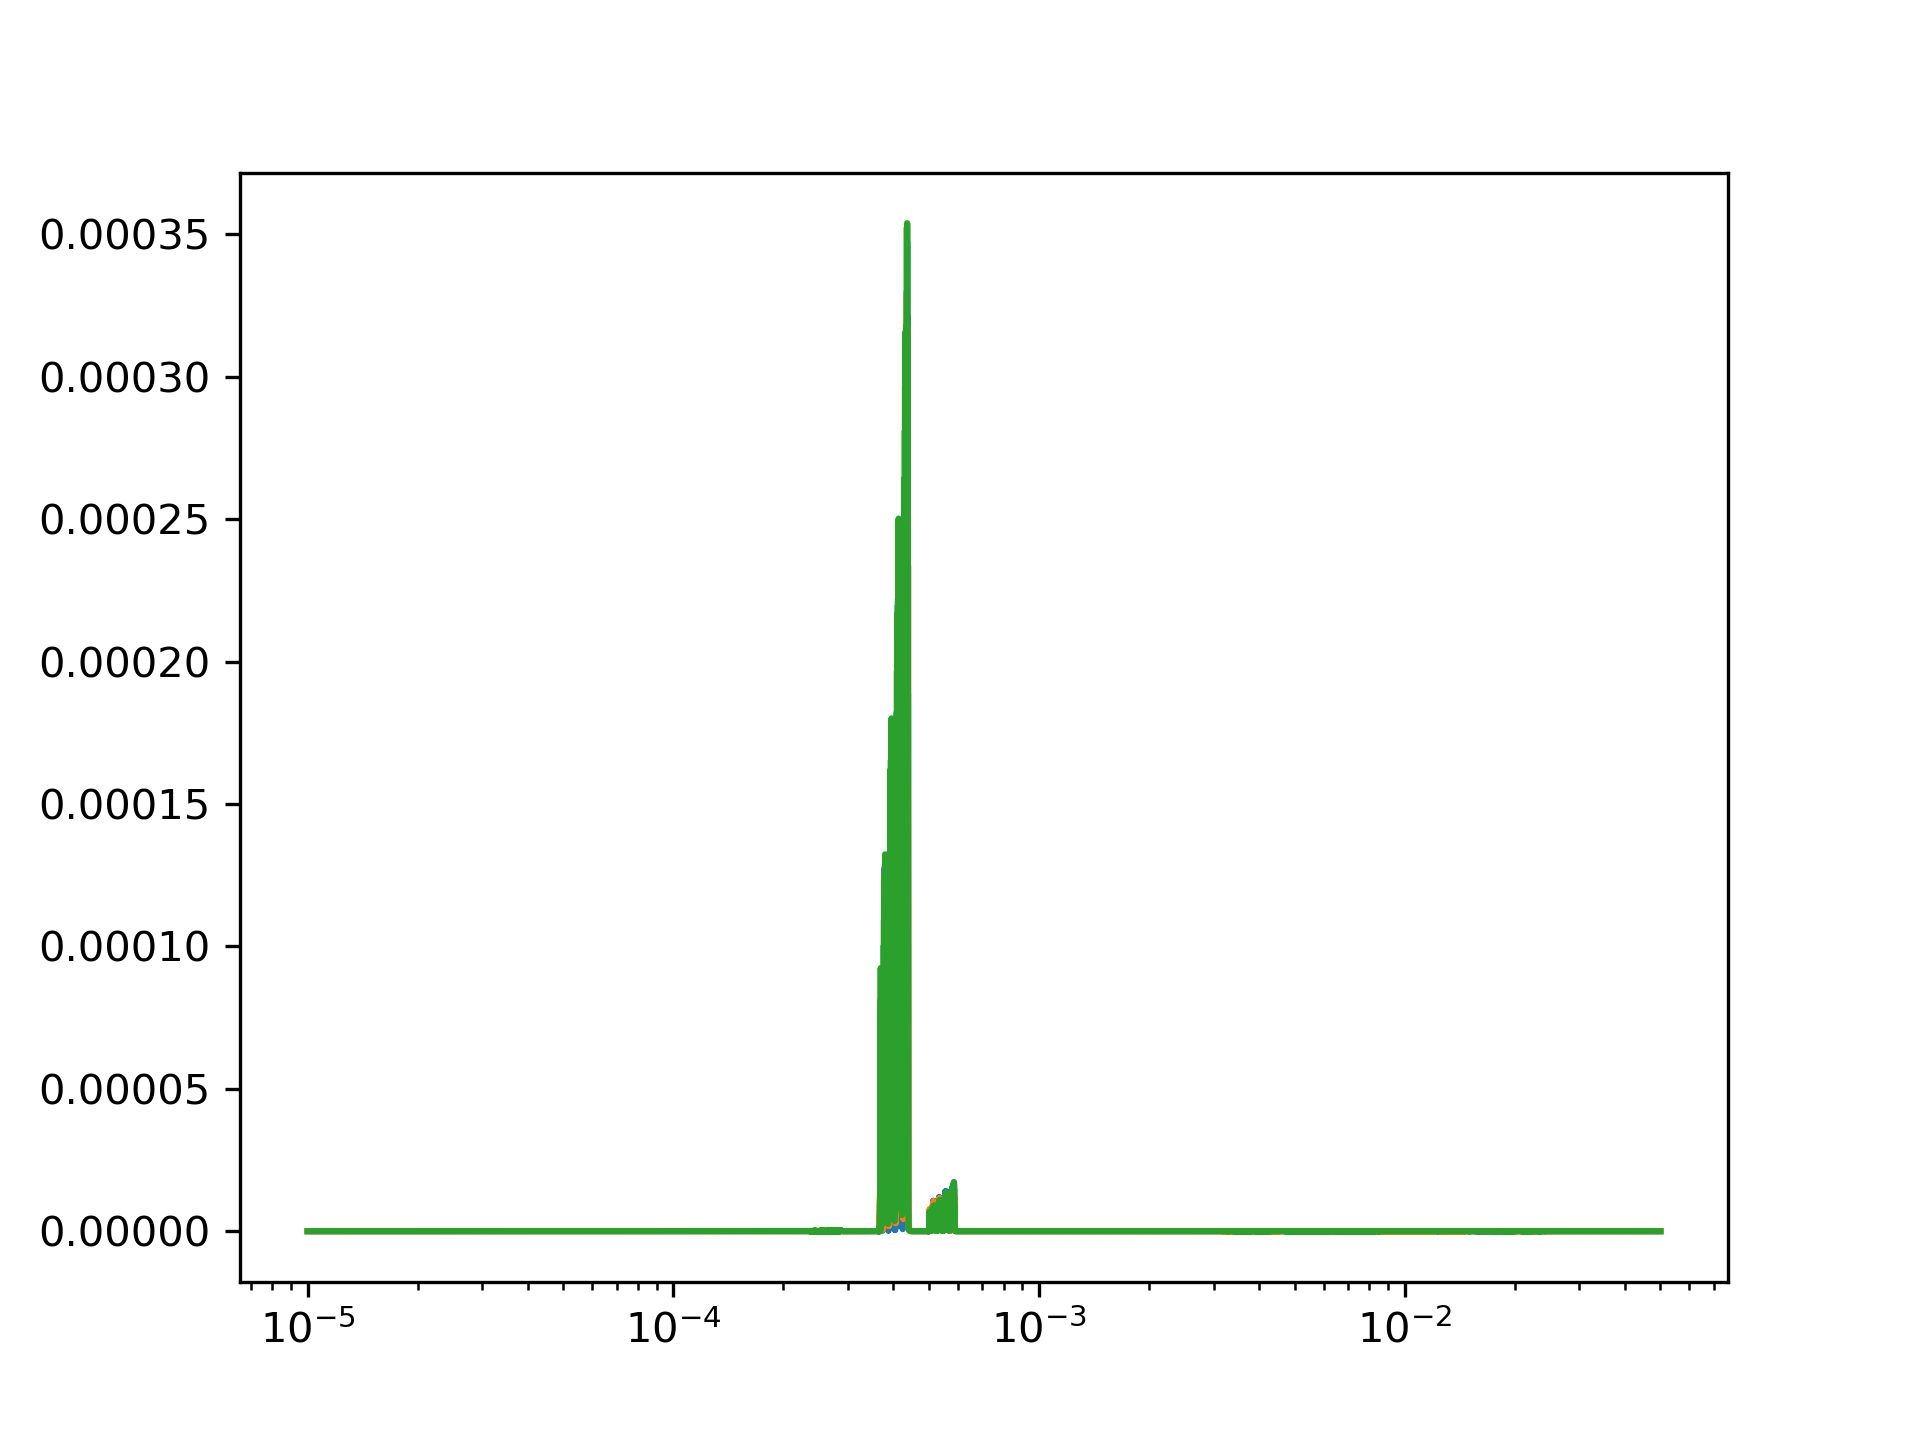
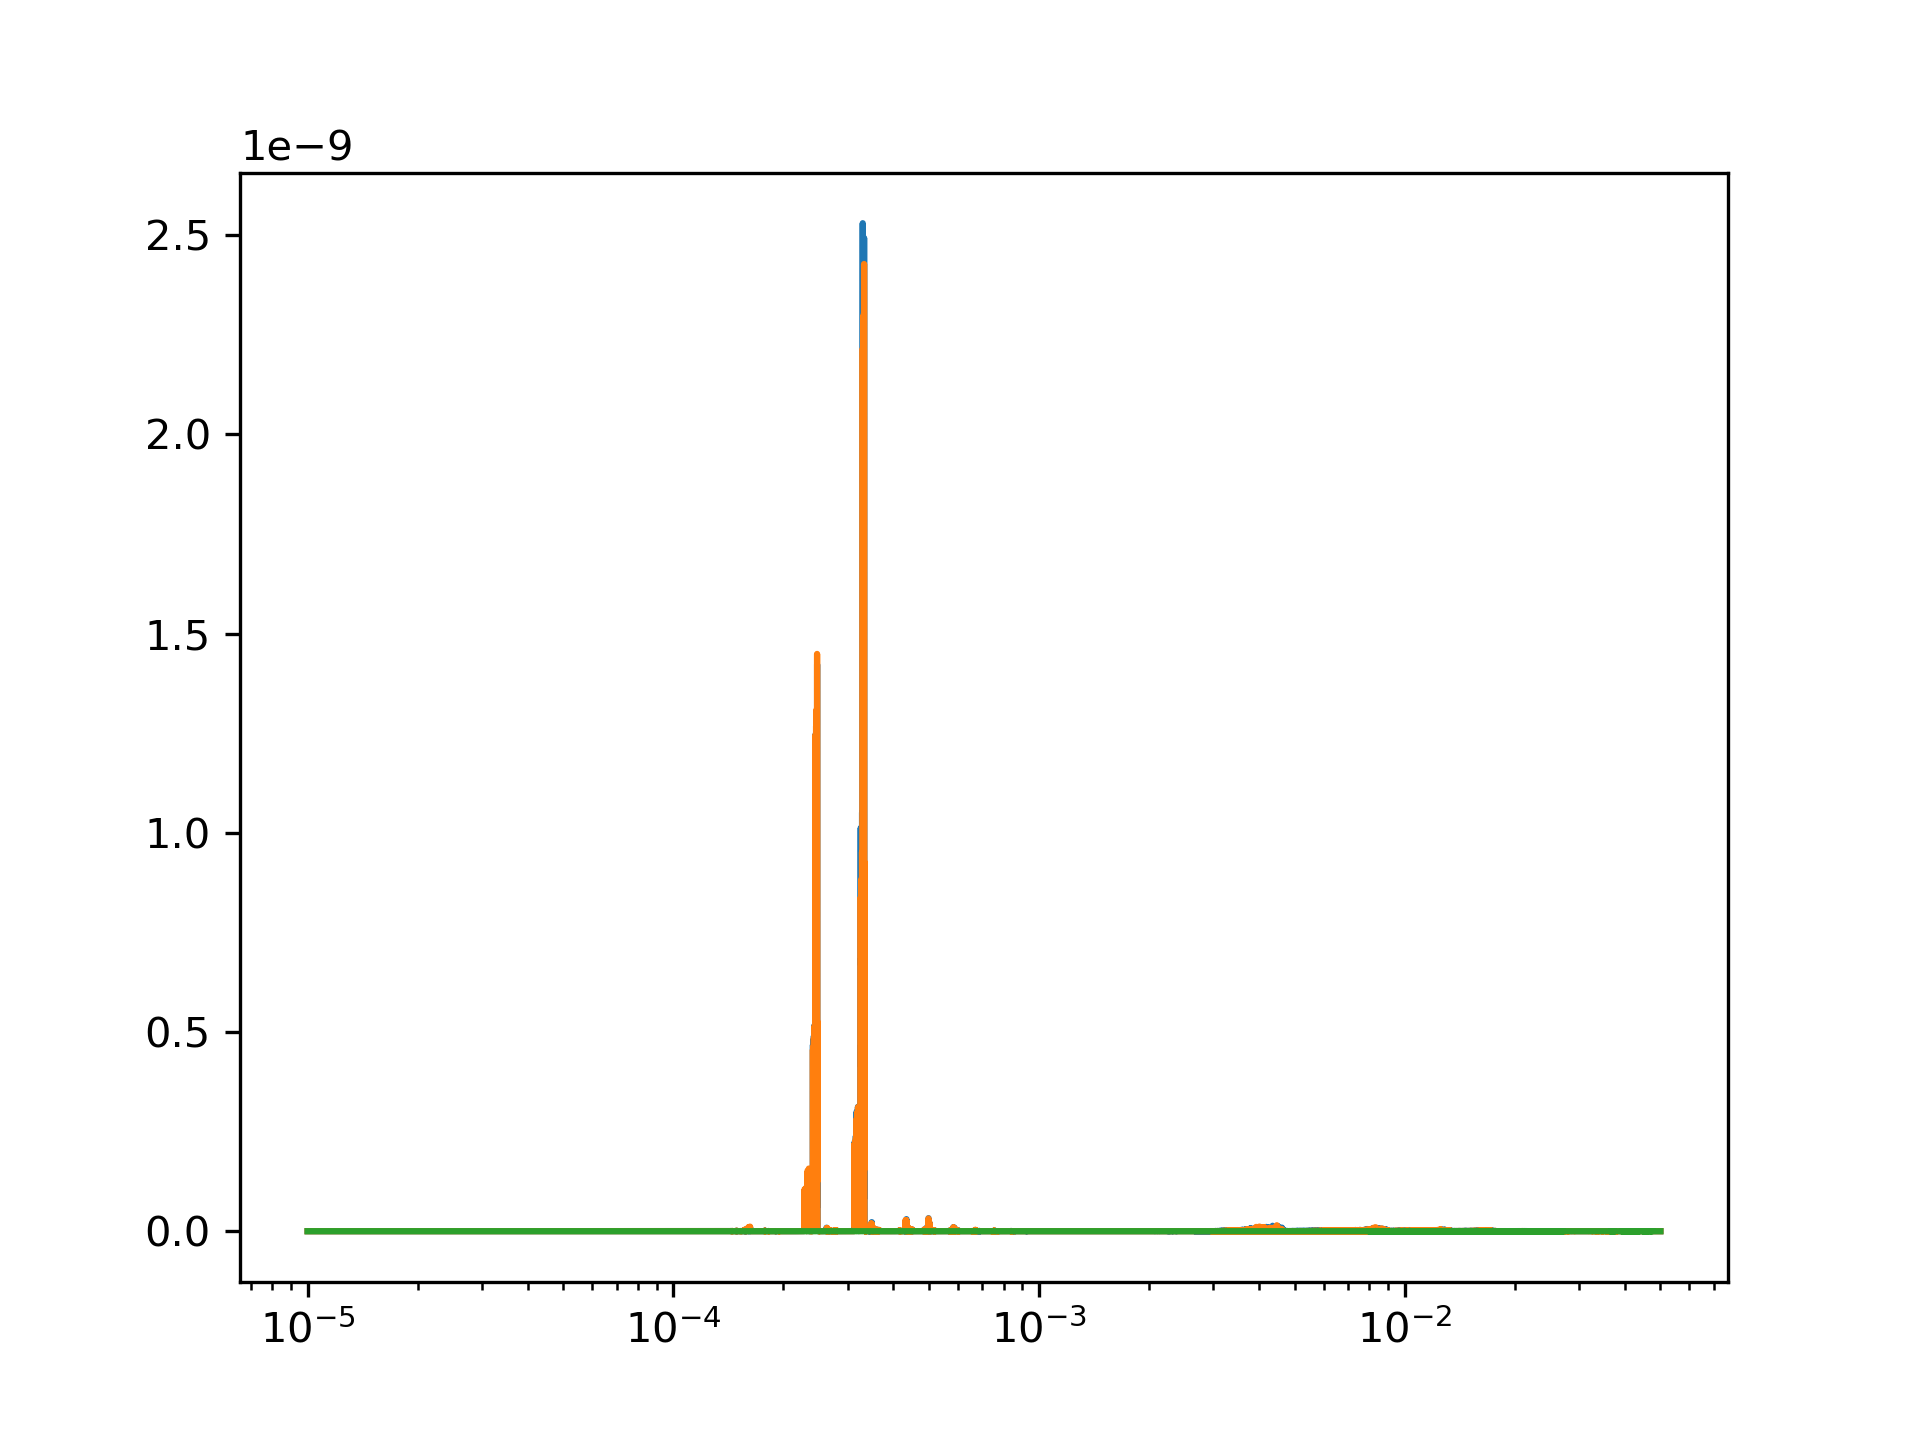
SNR Problem: changed to AET and higher Lagrange order

diff --git a/master_thesis_code/waveform_generator.py b/master_thesis_code/waveform_generator.py
@@ -29,7 +29,7 @@ pn5_aak_configuration = {
 
 # FAST LISA RESPONSE configuration
 # order of the langrangian interpolation
-order = 25
+order = 35
 orbit_file_esa = "./lisa_files/esa-trailing-orbits.h5"
 orbit_kwargs_esa = dict(orbit_file=orbit_file_esa)
 # 1st or 2nd or custom (see docs for custom)
@@ -38,7 +38,7 @@ tdi_kwargs_esa = dict(
     orbit_kwargs=orbit_kwargs_esa,
     order=order,
     tdi=tdi_gen,
-    tdi_chan="XYZ",
+    tdi_chan="AET",
 )
 
 
@@ -62,7 +62,7 @@ def create_lisa_response_generator(
         is_ecliptic_latitude=False,
         use_gpu=USE_GPU,
         Tobs=T_observation,
-        remove_garbage="zero", # TODO: understand why to use this
+        remove_garbage=True, # TODO: understand why to use this
         dt=dt,
         **tdi_kwargs_esa,
     )
